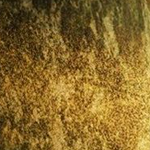
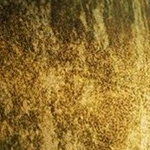
WIP

diff --git a/generate.go b/generate.go
@@ -43,7 +43,7 @@ func main() {
 	cmd.Run()
 
 	// Crop the image
-	cmd = exec.Command("ffmpeg", "-i", "wallpaper_scaled.png", "-vf", "crop=150:150:50:176", "0_0.png")
+	cmd = exec.Command("ffmpeg", "-i", "wallpaper_scaled.png", "-vf", "crop=150:150:60:184", "0_0.png")
 	var stderr bytes.Buffer
 	cmd.Stderr = &stderr
 	err := cmd.Run()
